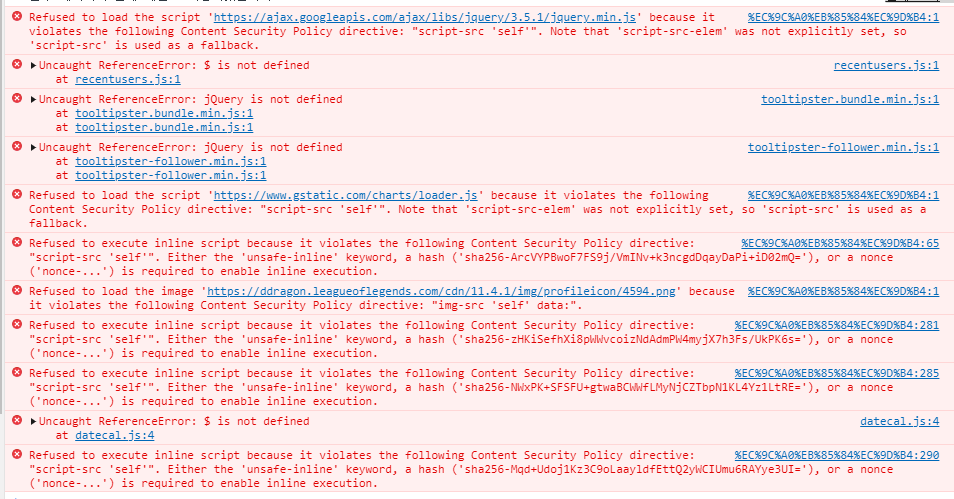
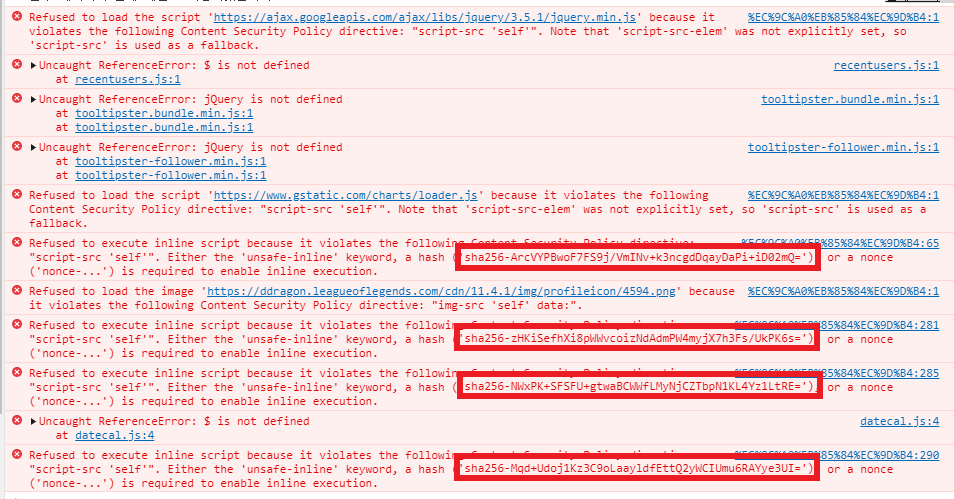
past post

Changed region(s): [[0.456, 0.6313, 0.8816, 0.8116], [0.456, 0.9018, 0.8816, 0.9619], [0.456, 0.481, 0.8816, 0.5411]]

diff --git a/_posts/2020-03-06-express-helmet.md b/_posts/2020-03-06-express-helmet.md
@@ -1,0 +1,202 @@
+---
+title: "Express 웹사이트 보안 강화하기 [Helmet]"
+excerpt_separator: "<!--more-->"
+layout: single
+date: 2021-03-06T13:56:30+09:00
+categories:
+  - Node.js
+tags:
+  - Node.js
+  - Express
+  - Helmet
+permalink: /nodejs/helmet/
+---
+---
+Express로 만들어진 웹 사이트의 보안을 강화하기 위해 [Helmet](https://helmetjs.github.io/){:target="_blank"} 미들웨어를 사용합니다.
+<!--more-->
+## 설치 및 사용법
+* [Helmet](https://helmetjs.github.io/){:target="_blank"}
+
+* [Production Best Practices: Security](https://expressjs.com/en/advanced/best-practice-security.html){:target="_blank"}
+
+```
+$ npm install helmet --save
+```
+
+```javascript
+// ...
+
+const helmet = require('helmet')
+
+// 모든 기능 사용
+app.use(helmet());
+
+// or, 특정 기능 사용
+app.use(helmet.contentSecurityPolicy());
+app.use(helmet.dnsPrefetchControl());
+app.use(helmet.expectCt());
+app.use(helmet.frameguard());
+app.use(helmet.hidePoweredBy());
+app.use(helmet.hsts());
+app.use(helmet.ieNoOpen());
+app.use(helmet.noSniff());
+app.use(helmet.permittedCrossDomainPolicies());
+app.use(helmet.referrerPolicy());
+app.use(helmet.xssFilter());
+
+// ...
+```
+
+## Content Security Policy (CSP)
+CSP를 사용하면 웹사이트의 http응답에 CSP 헤더가 추가됩니다. CSP 헤더가 존재할 경우, 브라우저는 CSP 헤더에 언급되지 않은 리소스들을 로드하지 않습니다. Helmet의 CSP 기본설정은 'self' 즉, 자신의 웹사이트에 존재하는 리소스들만을 허용합니다.
+
+![Broken LoLog.me](/assets/post-images/lolog-helmet/broken.png)
+(CSP로 인해 리소스를 가져오지 못한 웹페이지 [LoLog.me](https://lolog.me/){:target="_blank"})
+
+그래서 CDN 등의 외부 사이트의 소스를 이용할 경우, 또는 다른 웹사이트에서 이미지 로드하는 경우, 심지어 인라인 스크립트로 자바스크립트 코드를 작성한 경우 모두 에러를 발생시킵니다. 이를 해결하기 위해서는 웹 페이지가 사용할 신뢰할 수 있는 리소스들의 도메인을 CSP 헤더에 추가해야합니다.
+
+```javascript
+const cspOptions = {
+  directives: {
+    // 기본 옵션을 가져옵니다.
+    ...helmet.contentSecurityPolicy.getDefaultDirectives(),
+    
+    // 구글 API 도메인과 인라인된 스크립트를 허용합니다.
+    "script-src": ["'self'", "*.googleapis.com", "'unsafe-inline'"],
+
+    // 리그오브레전드 사이트의 이미지 소스를 허용합니다.
+    "img-src": ["'self'", "data:", "*.leagueoflegends.com"],
+  }
+}
+
+// Helmet의 모든 기능 사용. (contentSecurityPolicy에는 custom option 적용)
+app.use(helmet({
+  contentSecurityPolicy: cspOptions,
+}));
+```
+
+## 'unsafe-inline' 대체하기
+CSP 헤더에 'unsafe-inline'을 추가하면, 인라인된 스크립트의 실행이 허용됩니다. 그러나 이는 해커가 웹사이트의 inline 스크립트를 주입하여 보안상의 위협을 가할 수 있게 합니다. 이를 해결하는 방법은 세가지가 있습니다.
+
+### 1. inline script 없애기
+기존에 작성했던 인라인 스크립트를 개별 파일로 옮기고, js 파일 자체를 script 태그의 src 속성으로 추가하면 됩니다. onclick 속성과 같이, 태그 내부에서 자바스크립트를 실행하는 속성들은 js 파일에서 addEventListener() 함수로 대체할 수 있습니다.
+
+```html
+<button id="btn" onclick="doSomething()">
+```
+버튼 태그의 onclick 속성을
+```javascript
+document.getElementById("btn").addEventListener('click', doSomething);
+
+// jQuery 이용시
+$('#btn').click(dosomething);
+```
+ addEventListener() 함수를 호출함으로써 대체할 수 있습니다. (또는 jQuery 이용)
+
+### 2. nonce 속성 이용
+웹페이지를 로드할 때마다 무작위로 생성된 nonce 속성을 인라인 스크립트에 부여하고, 이를 CSP 헤더에 추가합니다. 응답(response) 마다 다른 nonce 값이 설정되므로, 제 3자가 인라인 스크립트를 주입하기 어려워집니다.
+
+Express에서 nonce 생성 및 사용 예제
+```javascript
+// nonce 생성
+app.use((req, res, next) => {
+  res.locals.cspNonce = crypto.randomBytes(16).toString("hex");
+  next();
+});
+
+// helmet 설정 예
+app.use(
+  helmet.contentSecurityPolicy({
+    directives: {
+      defaultSrc: ["'self'"],
+      scriptSrc: ["'self'", (req, res) => `'nonce-${res.locals.cspNonce}'`]
+    },
+  })
+);
+```
+
+HTML에서 script 태그에 nonce 속성 추가
+```html
+<script nonce="{cspNonce Value}">
+  alert('Hi');
+</script>
+```
+### 3. hash 사용
+각각의 인라인 스크립트의 hash 값을 CSP에 추가합니다. 'inline-unsafe' 속성을 제거한 채로 브라우저에서 웹페이지를 로드할 경우 에러 메시지가 뜨는데, 메시지 내부에 해당 인라인 스크립트의 해시값을 얻을 수 있습니다.
+
+![Error massages](/assets/post-images/lolog-helmet/error.png)
+빨간 박스 안의 값이 해시값입니다. inline script 마다 고유한 해시값을 갖고 있습니다. CSP의 scriptSrc 옵션에 해당한는 해시값을 추가하면 됩니다. (여러개의 inline script가 있을 경우에는 각각의 해시값을 모두 넣어야합니다.)
+```javascript
+// helmet 설정 예
+app.use(
+  helmet.contentSecurityPolicy({
+    directives: {
+      defaultSrc: ["'self'"],
+      scriptSrc: ["'self'", , "'sha256-8tCjiEiH4STP6Nn4TLcbKGQVABm858n6iZwulDeFJFA='"]
+    },
+  })
+);
+```
+
+hash를 사용할 경우에는 각각의 inline script 마다 해시값을 추가해야하고, inline script가 매번 바뀔 경우 해시값도 매번 바뀌게 된다는 단점이 있습니다. 웹사이트에 inline script가 매우 적고, 항상 동일할 경우에만 사용하는 것이 좋겟습니다.
+
+## CSP에 Google Gtag 추가 (Google Tag Manager)
+Google Gtag를 손쉽게 관리하기 위해서, 기존 Gtag 코드를 Google Tag Manage로 대체했습니다.
+* [태그 관리자 설정 및 설치하기](https://support.google.com/tagmanager/answer/6103696?hl=ko){:target="_blank"}
+
+태그 관리자 코드에 nonce를 추가하고 몇몇 도메인을 허용해주면, CSP와 함께 구글 태그 관리자를 정상적으로 사용할 수 있습니다.
+* [Using Google Tag Manager with a Content Security Policy](https://developers.google.com/tag-manager/web/csp){:target="_blank"}
+
+nonce를 추가한 Google Tag Manager 구성 태그
+```html
+<!-- Google Tag Manager -->
+<script nonce='{SERVER-GENERATED-NONCE}'>(function(w,d,s,l,i){w[l]=w[l]||[];w[l].push({'gtm.start':
+new Date().getTime(),event:'gtm.js'});var f=d.getElementsByTagName(s)[0],
+j=d.createElement(s),dl=l!='dataLayer'?'&l='+l:'';j.async=true;j.src=
+'https://www.googletagmanager.com/gtm.js?id='+i+dl;var n=d.querySelector('[nonce]');
+n&&j.setAttribute('nonce',n.nonce||n.getAttribute('nonce'));f.parentNode.insertBefore(j,f);
+})(window,document,'script','dataLayer','GTM-{YOUR-CONTAINER-ID}');</script>
+<!-- End Google Tag Manager -->
+```
+
+추가해야할 CSP 옵션 (Google Tag Manager + Google Analytics)
+```javascript
+// nonce 생성
+app.use((req, res, next) => {
+  res.locals.cspNonce = crypto.randomBytes(16).toString("hex");
+  next();
+});
+
+// contentSecurityPolicy 옵션
+const cspOptions = {
+  directives: {
+    ...helmet.contentSecurityPolicy.getDefaultDirectives(),
+    "script-src": ["'self'", "https://www.googletagmanager.com", "https://www.google-analytics.com",
+      "https://ssl.google-analytics.com", "https://tagmanager.google.com", "*.gstatic.com", (req, res) => `'nonce-${res.locals.cspNonce}'`],
+    "img-src": ["'self'", "www.googletagmanager.com", "https://www.google-analytics.com" ,
+      "https://*.gstatic.com", "https://www.gstatic.com", "data:"],
+   
+    "connect-src": ["'self'", "https://www.google-analytics.com"]
+  }
+}
+
+// contentSecurityPolicy 옵션과 함께 Helmet 기능 전체 활성화
+app.use(helmet({
+  contentSecurityPolicy: cspOptions,
+}));
+```
+
+## Reference
+* [Helmet](https://helmetjs.github.io/){:target="_blank"}
+
+* [Production Best Practices: Security](https://expressjs.com/en/advanced/best-practice-security.html){:target="_blank"}
+
+* [Content Security Policy (CSP)](https://developer.mozilla.org/en-US/docs/Web/HTTP/CSP){:target="_blank"}
+
+* [CSP: script-src](https://developer.mozilla.org/en-US/docs/Web/HTTP/Headers/Content-Security-Policy/script-src){:target="_blank"}
+
+* [Content Security Policy](https://developers.google.com/web/fundamentals/security/csp){:target="_blank"}
+
+* [태그 관리자 설정 및 설치하기](https://support.google.com/tagmanager/answer/6103696?hl=ko){:target="_blank"}
+
+* [Using Google Tag Manager with a Content Security Policy](https://developers.google.com/tag-manager/web/csp){:target="_blank"}
